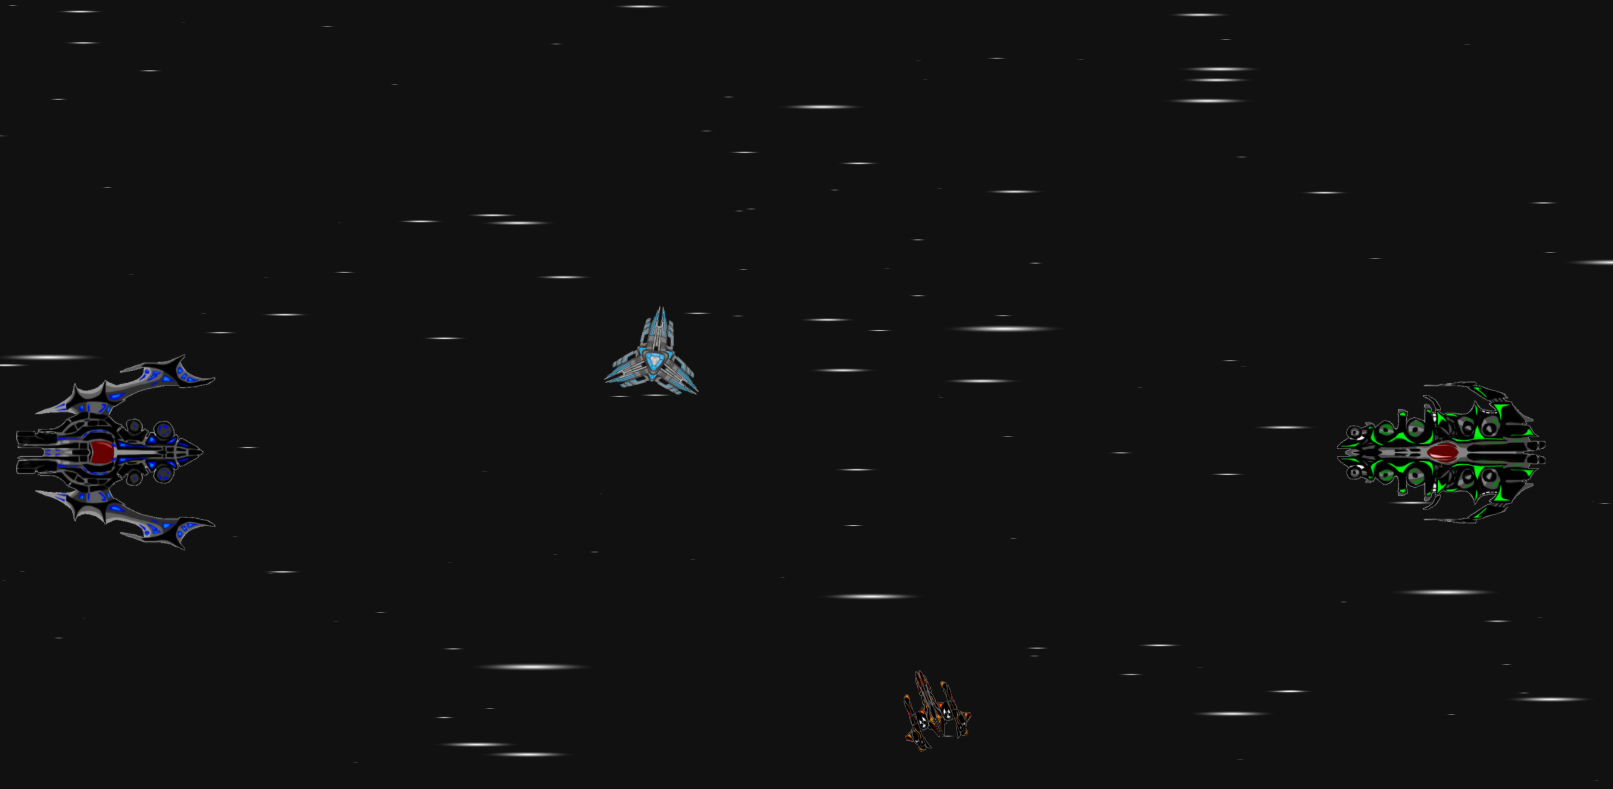
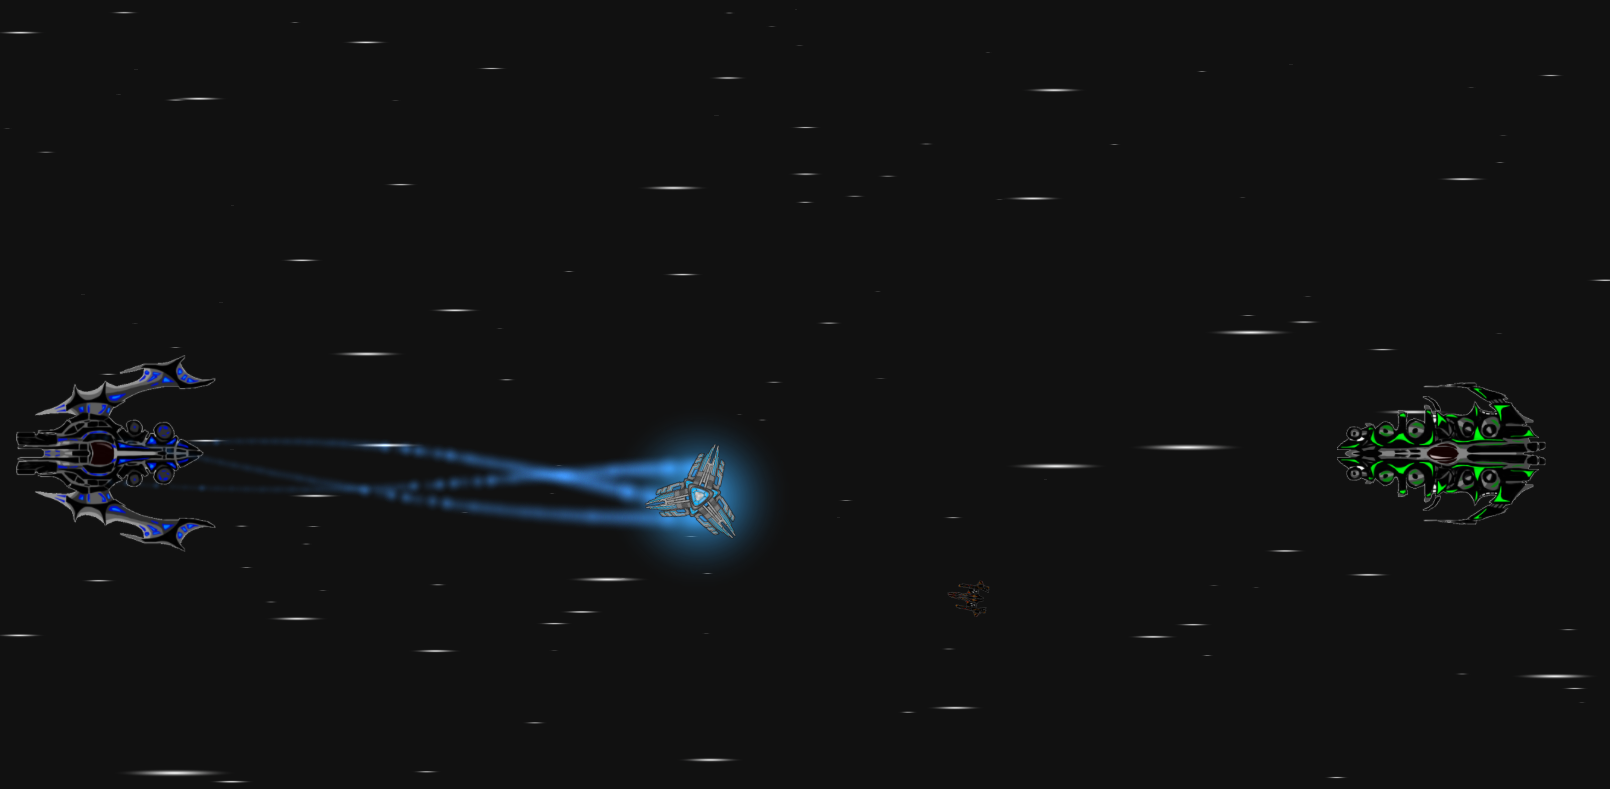
Bomb particles now color-coded

diff --git a/Assets/_Scripts/Bomb.cs b/Assets/_Scripts/Bomb.cs
@@ -18,6 +18,13 @@ public class Bomb : MonoBehaviour {
 			_owningPlayer = value;
 			if (value != Player.none) {
 				spriteRenderer.sprite = playerBombSprites[(int)value];
+				//Set the color of each of the wing's particle systems
+				for (int i = 0; i < 3; i++) {
+					particleSystems[i].startColor = GameManager.S.players[(int)value].playerColor;
+				}
+				//Only turn on the prewarmed particle glow for this player
+				particleSystems[3].gameObject.SetActive((value == Player.player1));
+				particleSystems[4].gameObject.SetActive((value == Player.player2));
             }
 		}
 	}
@@ -29,6 +36,7 @@ public class Bomb : MonoBehaviour {
 
 	PhysicsObj physics;
 	SpriteRenderer spriteRenderer;
+	ParticleSystem[] particleSystems;
 	Sprite[] playerBombSprites = new Sprite[2];
 
 
@@ -39,6 +47,7 @@ public class Bomb : MonoBehaviour {
 		spriteRenderer = GetComponent<SpriteRenderer>();
 		playerBombSprites[0] = Resources.Load<Sprite>("Images/Bomb1");
 		playerBombSprites[1] = Resources.Load<Sprite>("Images/Bomb2");
+		particleSystems = GetComponentsInChildren<ParticleSystem>();
 	}
 	
 	// Update is called once per frame
